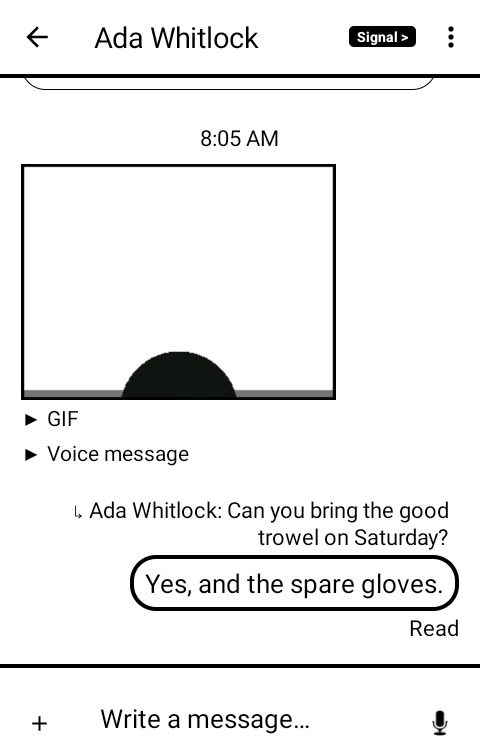
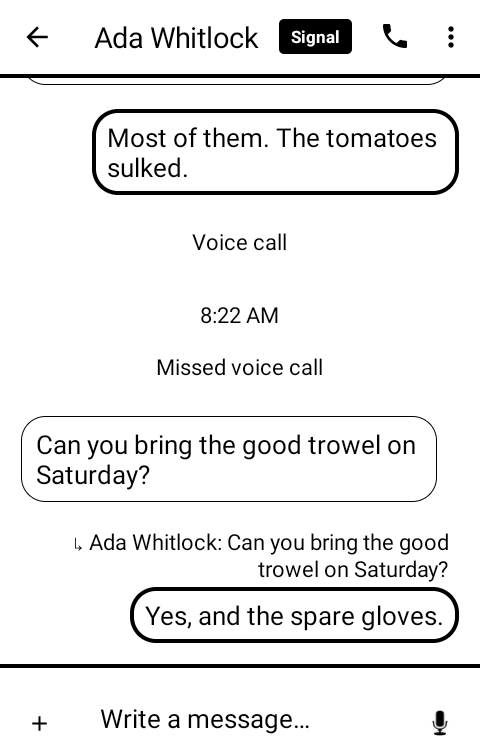
Screenshots: calls, and the current look
A call in progress takes the place of the message menu, and the
conversation shows its calls as the centred lines they are now. All made
up, on an emulator.

diff --git a/README.md b/README.md
@@ -13,8 +13,8 @@ It continues [QKSMS](https://github.com/moezbhatti/qksms) by way of [QUIK](https
 
 | | |
 |---|---|
-| ![The conversation list, Signal and texts together](screenshots/1-conversations.png) | ![A Signal conversation: a GIF, a voice message and a quoted reply](screenshots/2-conversation.png) |
-| ![Holding a message: reply, react, open, save](screenshots/4-message-menu.png) | ![Replying to a message, with the reply half written](screenshots/5-reply.png) |
+| ![The conversation list, Signal and texts together](screenshots/1-conversations.png) | ![A Signal conversation: two calls and a quoted reply](screenshots/2-conversation.png) |
+| ![A Signal voice call, heard on a Bluetooth headset](screenshots/4-call.png) | ![Replying to a message, with the reply half written](screenshots/5-reply.png) |
 
 Desktop Sync, which is the page the phone serves to a browser on your own computer:
 
